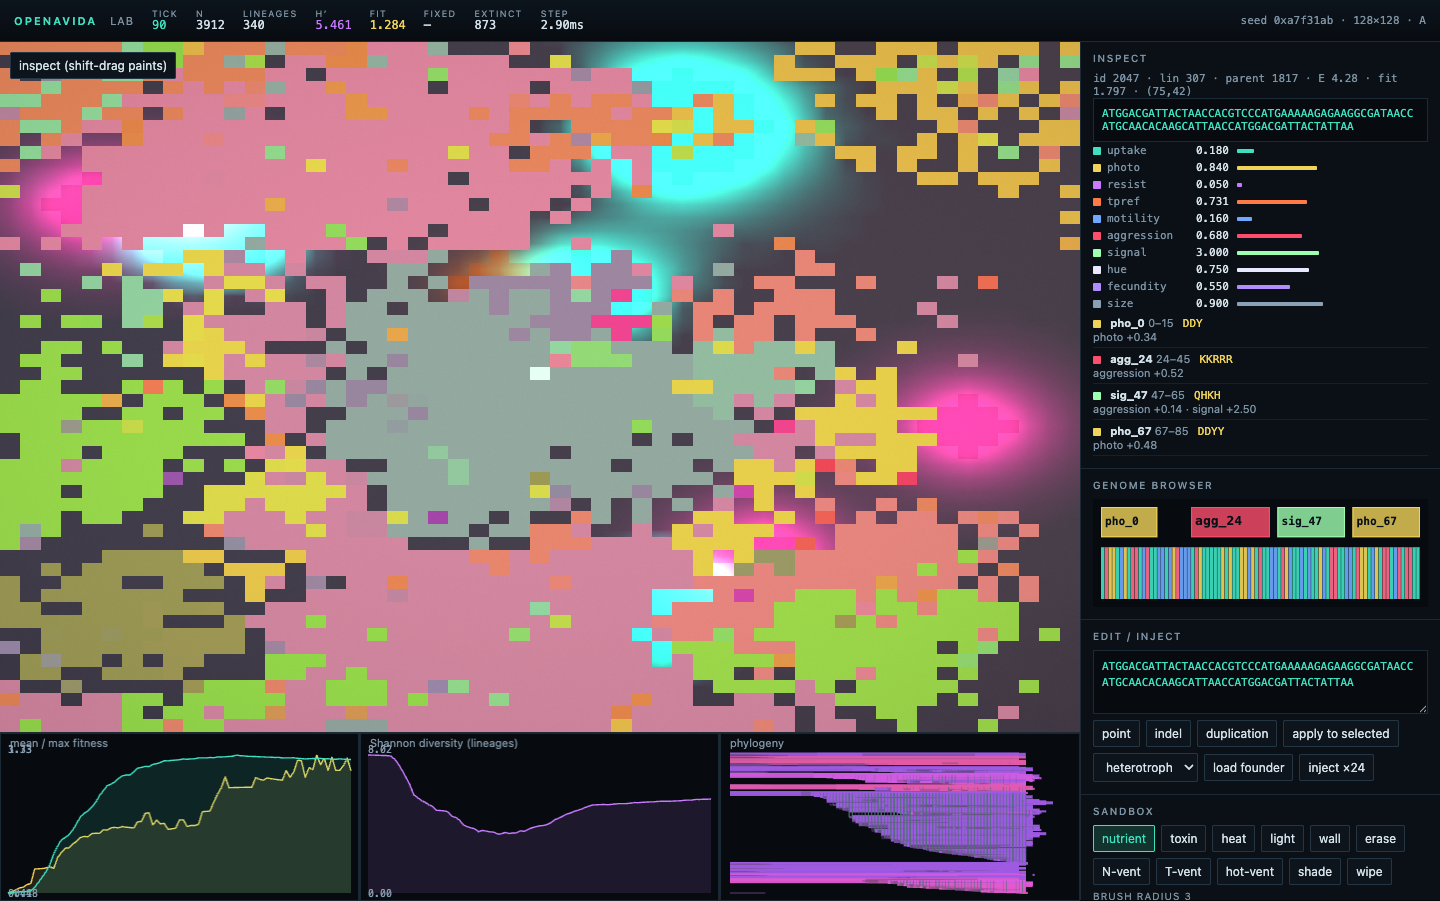
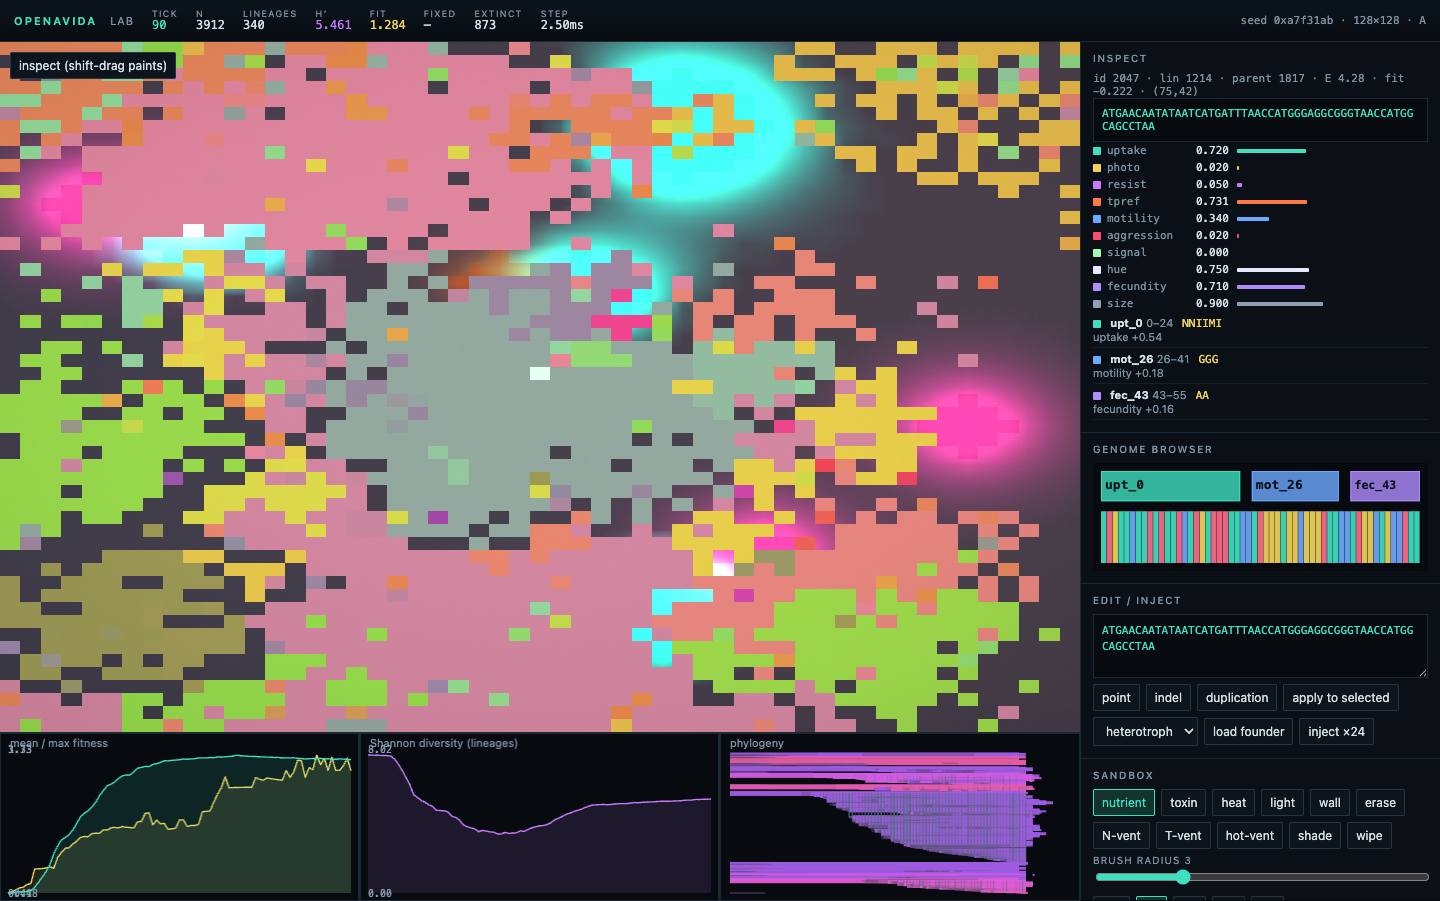
Fix genome editor: rAF inspect refresh no longer clobbers edits.
select/apply still copy the organism sequence into #genome-edit; the
per-frame refresh only updates inspect panels so point/indel/dup/apply
and load-founder persist.

diff --git a/src/app.ts b/src/app.ts
@@ -31,6 +31,7 @@ import {
   type WorldSnapshot,
 } from "./sim/index";
 import { Rng } from "./sim/rng";
+import { syncGenomeEditor, type EditorSyncReason } from "./ui/editorSync";
 
 const BRUSHES: { id: BrushKind; label: string }[] = [
   { id: "nutrientBlob", label: "nutrient" },
@@ -240,7 +241,7 @@ export function mount(root: HTMLElement): void {
     (side.querySelector("#status-line") as HTMLElement).textContent = msg;
   }
 
-  function selectOrganism(world: World, id: number): void {
+  function selectOrganism(world: World, id: number, reason: EditorSyncReason = "select"): void {
     state.selectedId = id;
     renderer.selectedId = id;
     const org = world.organisms.find((o) => o.id === id) ?? null;
@@ -250,11 +251,13 @@ export function mount(root: HTMLElement): void {
     const genesEl = side.querySelector("#inspect-genes")!;
     const ta = side.querySelector("#genome-edit") as HTMLTextAreaElement;
     if (!org) {
-      meta.textContent = "Click an organism on the plate.";
-      gEl.textContent = "";
-      pEl.innerHTML = "";
-      genesEl.innerHTML = "";
-      browser.clear();
+      if (reason === "select") {
+        meta.textContent = "Click an organism on the plate.";
+        gEl.textContent = "";
+        pEl.innerHTML = "";
+        genesEl.innerHTML = "";
+        browser.clear();
+      }
       return;
     }
     const decoded = decodeGenome(org.genome);
@@ -263,8 +266,8 @@ export function mount(root: HTMLElement): void {
     gEl.textContent = org.genome;
     pEl.innerHTML = phenotypeTableHtml(org.ph);
     genesEl.innerHTML = genesHtml(track);
-    ta.value = org.genome;
-    browser.setSequence(org.genome);
+    syncGenomeEditor(ta, org.genome, reason);
+    if (reason !== "refresh") browser.setSequence(org.genome);
   }
 
   function layout(): void {
@@ -302,7 +305,7 @@ export function mount(root: HTMLElement): void {
     }
     if (state.selectedId >= 0) {
       const org = w.organisms.find((o) => o.id === state.selectedId);
-      if (org) selectOrganism(w, org.id);
+      if (org) selectOrganism(w, org.id, "refresh");
     }
     const now = performance.now();
     if (now - state.lastUi > 120) {
@@ -318,6 +321,7 @@ export function mount(root: HTMLElement): void {
       population: w.organisms.length,
       selectedGenome: (document.getElementById("inspect-genome") as HTMLElement).textContent ?? "",
       selectedPhenotype: (document.getElementById("inspect-phenotype") as HTMLElement).textContent ?? "",
+      editorValue: (document.getElementById("genome-edit") as HTMLTextAreaElement | null)?.value ?? "",
       canvasWidth: canvas.width,
       canvasHeight: canvas.height,
       drawingBufferWidth: gl.drawingBufferWidth,
@@ -506,7 +510,7 @@ export function mount(root: HTMLElement): void {
       return;
     }
     current().replaceGenome(state.selectedId, seq);
-    selectOrganism(current(), state.selectedId);
+    selectOrganism(current(), state.selectedId, "apply");
     status("genome applied (new lineage)");
   });
   side.querySelector("#btn-load-founder")!.addEventListener("click", () => {

diff --git a/tests/editor.test.ts b/tests/editor.test.ts
@@ -1,0 +1,36 @@
+import { describe, expect, it } from "vitest";
+import { decodeGenome, pointMutate, World } from "../src/sim/index";
+import { Rng } from "../src/sim/rng";
+import { shouldWriteEditor, syncGenomeEditor } from "../src/ui/editorSync";
+
+describe("genome editor vs rAF inspect refresh", () => {
+  it("refresh must not write the editor; select and apply may", () => {
+    expect(shouldWriteEditor("refresh")).toBe(false);
+    expect(shouldWriteEditor("select")).toBe(true);
+    expect(shouldWriteEditor("apply")).toBe(true);
+    expect(shouldWriteEditor("clear")).toBe(false);
+
+    const editor = { value: "USEREDIT" };
+    expect(syncGenomeEditor(editor, "ATGTAA", "refresh")).toBe(false);
+    expect(editor.value).toBe("USEREDIT");
+    expect(syncGenomeEditor(editor, "ATGAAAAAATAA", "select")).toBe(true);
+    expect(editor.value).toBe("ATGAAAAAATAA");
+    editor.value = "USEREDIT";
+    expect(syncGenomeEditor(editor, "ATGCCCCCCTAA", "apply")).toBe(true);
+    expect(editor.value).toBe("ATGCCCCCCTAA");
+  });
+
+  it("point-mutate then replaceGenome (apply) changes the selected organism", () => {
+    const w = new World({ width: 16, height: 16, startPopulation: 8, seed: 17 });
+    const org = w.organisms[0]!;
+    const id = org.id;
+    const original = org.genome;
+    const edited = pointMutate(original, new Rng(3));
+    expect(edited).not.toBe(original);
+    expect(w.replaceGenome(id, edited)).toBe(true);
+    const after = w.organisms.find((o) => o.id === id);
+    expect(after).toBeTruthy();
+    expect(after!.genome).toBe(decodeGenome(edited).sequence);
+    expect(after!.genome).not.toBe(original);
+  });
+});

diff --git a/src/ui/editorSync.ts b/src/ui/editorSync.ts
@@ -1,0 +1,20 @@
+/**
+ * Genome editor vs live inspect. rAF may refresh the inspect panel while a
+ * selection exists; it must not clobber #genome-edit or point/indel/dup/apply
+ * and load-founder+inject cannot stick.
+ */
+export type EditorSyncReason = "select" | "refresh" | "apply" | "clear";
+
+export function shouldWriteEditor(reason: EditorSyncReason): boolean {
+  return reason === "select" || reason === "apply";
+}
+
+export function syncGenomeEditor(
+  editor: { value: string },
+  sequence: string,
+  reason: EditorSyncReason,
+): boolean {
+  if (!shouldWriteEditor(reason)) return false;
+  editor.value = sequence;
+  return true;
+}

diff --git a/src/vite-env.d.ts b/src/vite-env.d.ts
@@ -5,6 +5,7 @@ interface OpenAvidaProbe {
   population: number;
   selectedGenome: string;
   selectedPhenotype: string;
+  editorValue: string;
   canvasWidth: number;
   canvasHeight: number;
   drawingBufferWidth: number;

diff --git a/workbench.md b/workbench.md
@@ -47,6 +47,10 @@ Round 1 critic picked **bar**: overlapping `gl.POINTS` halos. Loop 2: opaque NEA
 
 **Biggest remaining scientific gap vs full Avida:** no Logic-9 NAND/EQU virtual CPU (out of scope). Mapping is scalar traits, not tasks.
 
+## Editor / apply path (verifier gap)
+
+rAF `refreshMetrics` used to call `selectOrganism` and reset `#genome-edit` every frame, so point/indel/duplication/apply and load-founder could not stick. `src/ui/editorSync.ts` is the shipped policy: only `"select"` and `"apply"` write the textarea. Launch probe: `wipedByRaf=false`, `pointStuck=true` on both loads (`{SCRATCH}/launch.log`).
+
 ## How to run
 
 ```bash
